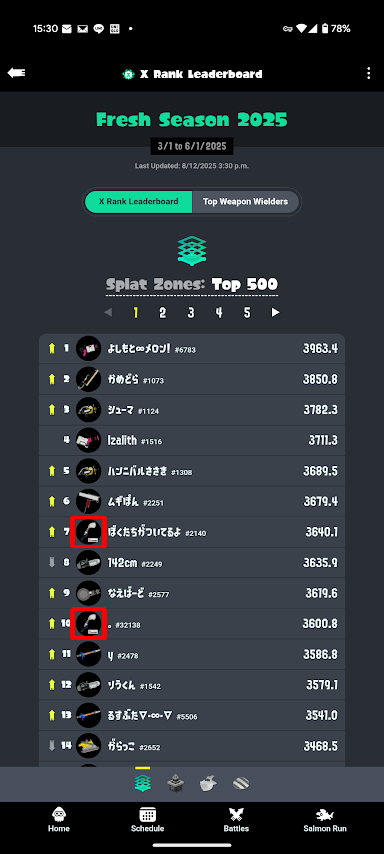
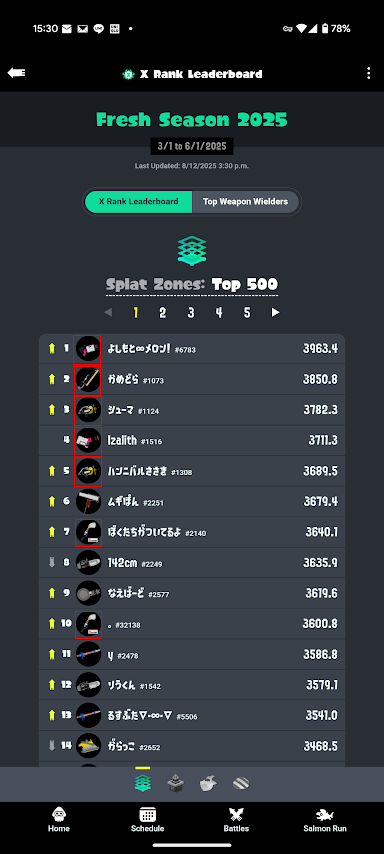
update search and add saving data as csv

diff --git a/WeaponCounter.py b/WeaponCounter.py
@@ -1,0 +1,30 @@
+import cv2 as cv
+import numpy as np
+import glob
+from matplotlib import pyplot as plt
+
+WeaponLists = glob.glob("WeaponList/*")
+resultlist = np.array([])
+
+img_rgb = cv.imread('testimage.png',cv.IMREAD_COLOR_BGR)
+assert img_rgb is not None, "file could not be read, check with os.path.exists()"
+img_gray = cv.cvtColor(img_rgb, cv.COLOR_BGR2GRAY)
+
+for weapon_dir in WeaponLists:    
+    template = cv.imread(weapon_dir, cv.IMREAD_GRAYSCALE) 
+    assert template is not None, "file could not be read, check with os.path.exists()"
+
+    result = cv.matchTemplate(img_gray, template, cv.TM_CCORR_NORMED)
+    th, tw = template.shape[:2]
+    threshold = 0.95
+    loc = np.where(result >= threshold)
+    w, h = template.shape
+
+    weapon_filename = weapon_dir.replace("WeaponList\\", "")
+    weapon_name = weapon_filename.replace(".png", "")
+    print(weapon_name,len(loc[0]))
+    resultlist = np.append(resultlist, [weapon_name, len(loc[0])])
+
+resultlist = resultlist.reshape(-1, 2)
+print(resultlist)
+np.savetxt("result.csv",resultlist, fmt='%s')

diff --git a/multi_detect_test.py b/multi_detect_test.py
@@ -1,18 +1,17 @@
 import cv2 as cv
 import numpy as np
 from matplotlib import pyplot as plt
-
-img_rgb = cv.imread('testimage.png')
+ 
+img_rgb = cv.imread('testimage.png', cv.IMREAD_ANYDEPTH)
 assert img_rgb is not None, "file could not be read, check with os.path.exists()"
-img_gray = cv.cvtColor(img_rgb, cv.COLOR_BGR2GRAY)
-template = cv.imread('WeaponList/Incbrush_Nouveau.png', cv.IMREAD_GRAYSCALE)
+template = cv.imread('WeaponList/Incbrush_Nouveau.png', cv.IMREAD_ANYDEPTH)
 assert template is not None, "file could not be read, check with os.path.exists()"
 w, h = template.shape[::-1]
-
-res = cv.matchTemplate(img_gray,template,cv.TM_CCOEFF_NORMED)
+ 
+res = cv.matchTemplate(img_rgb,template,cv.TM_CCOEFF_NORMED)
 threshold = 0.8
 loc = np.where( res >= threshold)
 for pt in zip(*loc[::-1]):
-    cv.rectangle(img_rgb, pt, (pt[0] + w, pt[1] + h), (0,0,255), 2)
-
-cv.imwrite('res.png',img_rgb)
+    cv.rectangle(img_rgb, pt, (pt[0] + w, pt[1] + h), (0,0,255), 1)
+ 
+cv.imwrite('mul_res.png',img_rgb)
